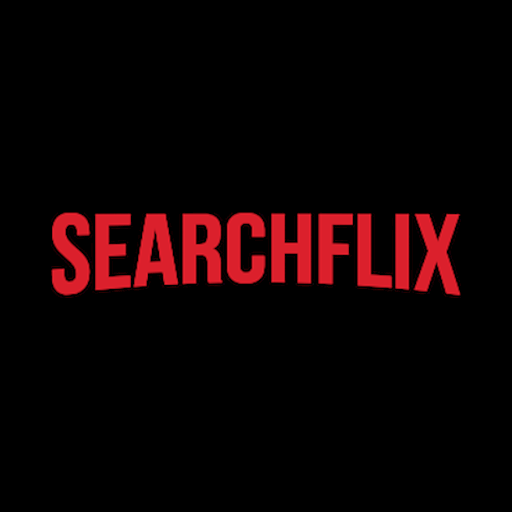
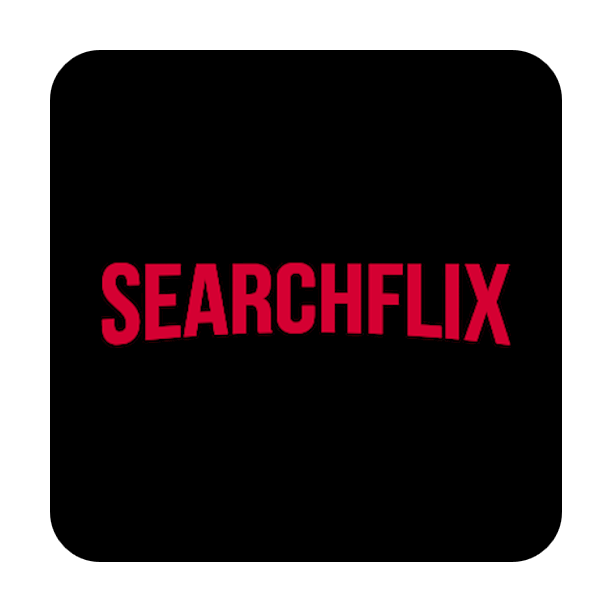
fix pwa config

diff --git a/nuxt.config.js b/nuxt.config.js
@@ -60,17 +60,9 @@ export default {
       short_name: 'Searchflix',
       lang: 'pl',
       display: 'standalone',
-      // background_color: '#000000',
-      background_color: '#eeeeee',
+      background_color: '#000000',
       theme_color: '#000000'
-
-    },
-    icon: [
-      // purpose: 'maskable',
-      // source: '~/static/searchflix.png',
-      // fileName: 'searchflix.png',
-      ]
-    
+    }
   },
 
   build: {
